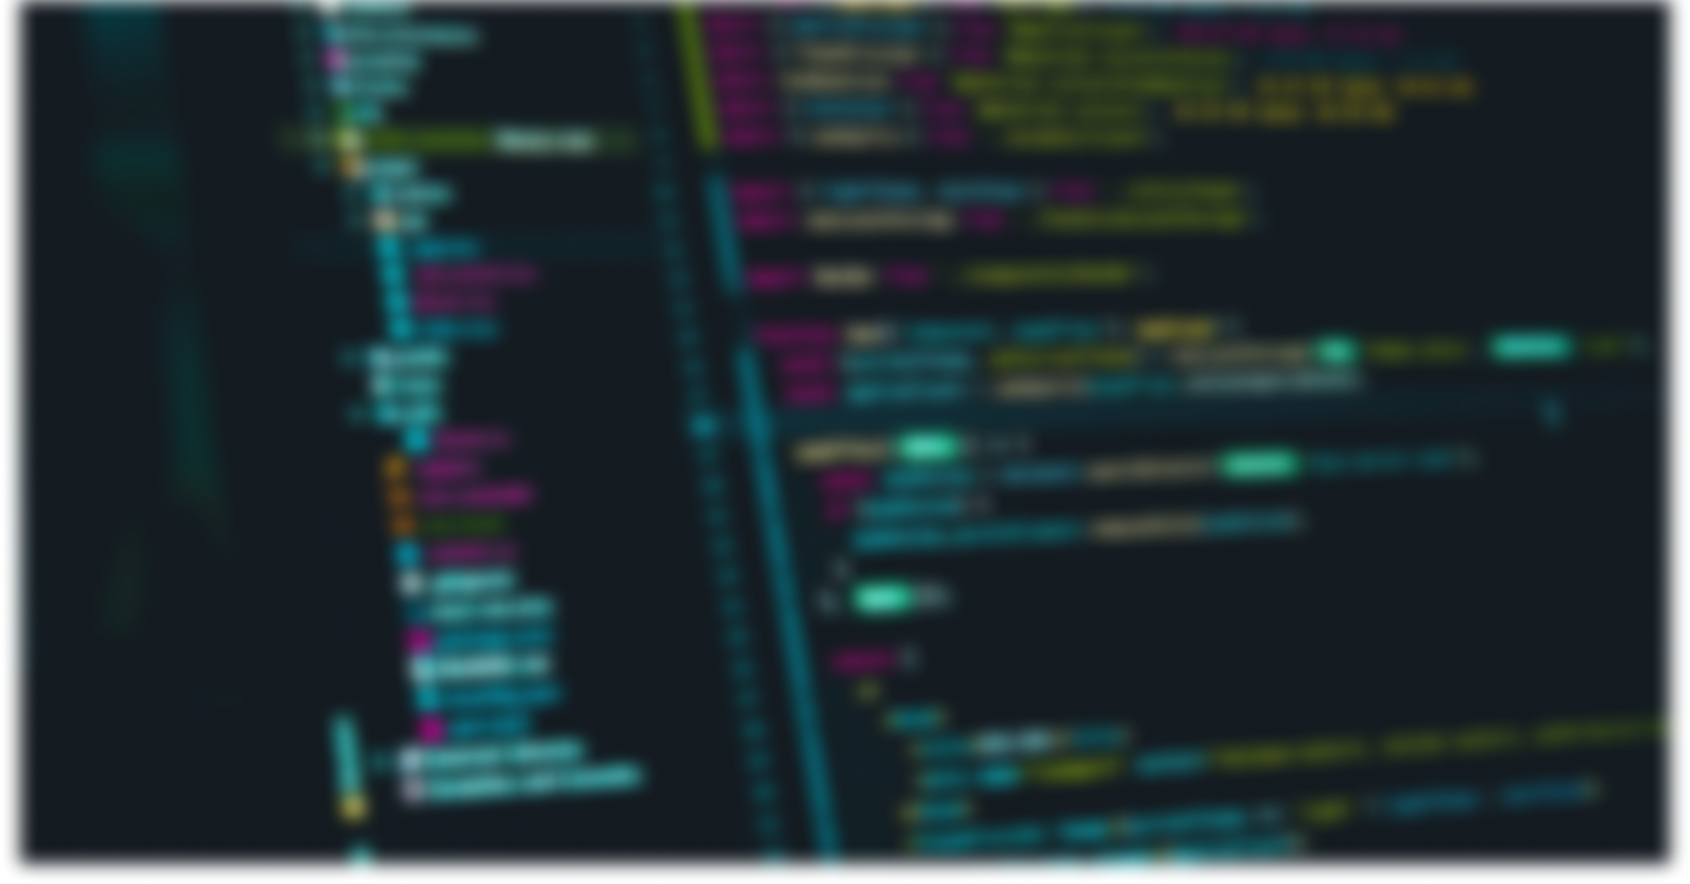
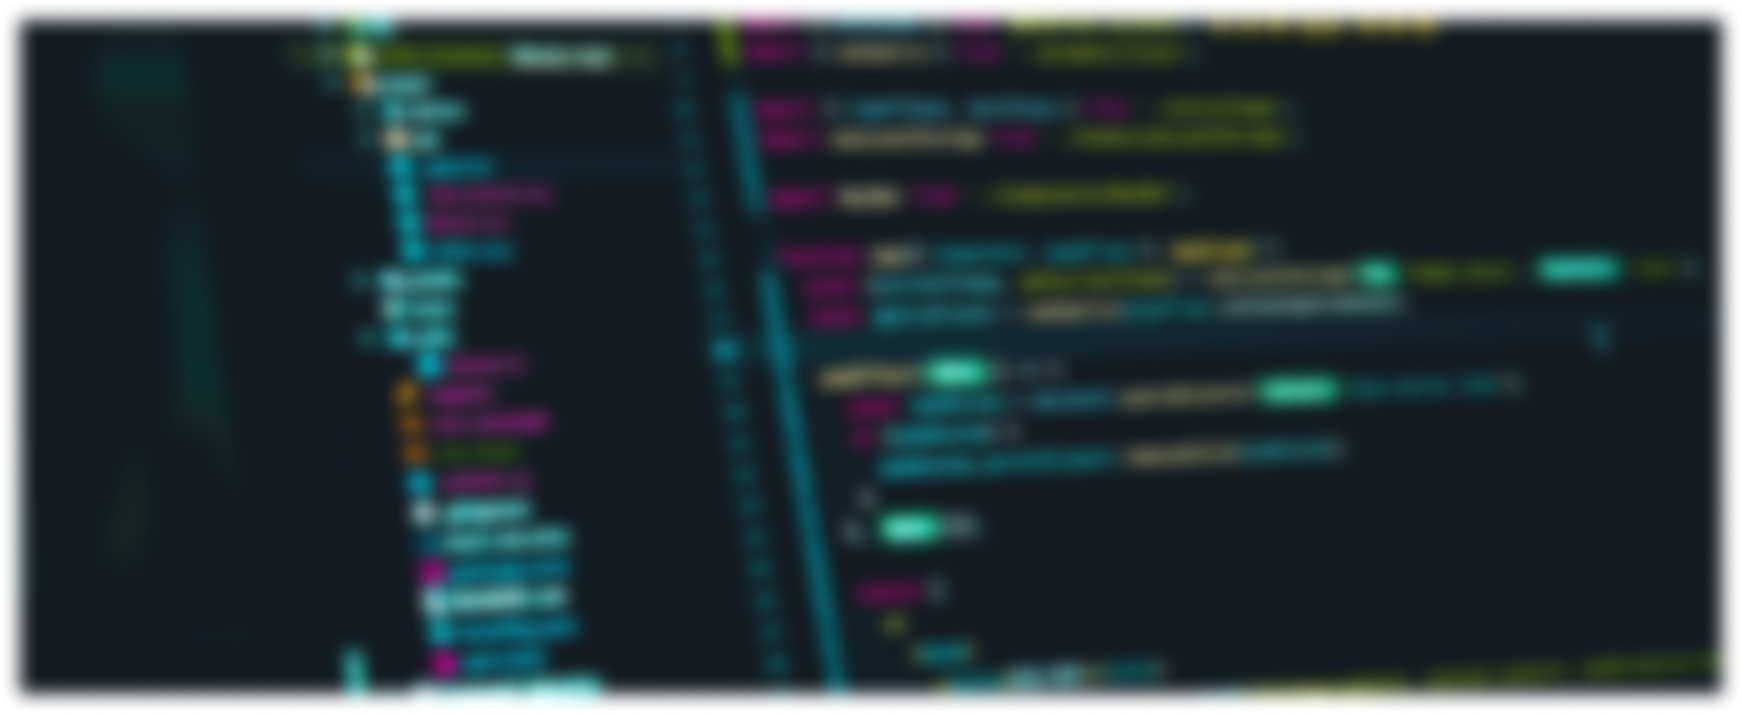
Creating a heroSection structure

Changed region(s): [[0.0, 0.0, 1.0, 0.4314], [0.0, 0.4622, 0.9846, 1.0], [0.4, 0.493, 0.4308, 0.5238]]

diff --git a/style.css b/style.css
@@ -1,24 +1,96 @@
-body{
+@import url('https://fonts.googleapis.com/css2?family=Roboto:ital,wght@0,100;0,300;0,500;0,700;0,900;1,100;1,300;1,400;1,500;1,700;1,900&display=swap');
+
+*{
     padding: 0;
     margin: 0;
+    box-sizing: border-box;
+    font-family: 'Roboto', sans-serif;
+    
 }
 
-.container{
+body{
+    background-color: #101323;
     display: flex;
     justify-content: center;
-    background-color: #101323;
-    width: 1920px;
-    height: 6702px;
+}
+.container{
+    border: 2px solid red;
+    display: flex;
+    justify-content: center;
+    width: 100vw;
+    max-width: 1920px;
 }
 
-.heroSection{
-    background-image: url(Assets/heroBackground.png);
-    width: 1704px;
-    height: 865px;
-}
-.navbar{
+@media (width >= 1920px) {
+    .breakpoint{
+        display: flex;
+        flex-direction: column;
+        border: 2px solid rgb(0, 255, 0);
+        width: 1704px;
+        margin-left: 108px;
+        margin-right: 108px;
+    }
+    /*HERO SECTION - START*/
 
-}
-.heroSectionMiddleContent{
+    /*NAVBAR SECTION - START*/
+    .heroSectionNavbar{
+        border: 2px solid rgb(220, 134, 220);
+        display: flex;
+        align-items: center;
+        width: 100%;
+        aspect-ratio: 17.04;
+    }
+    .heroSectionNavbarLinks{
+        border: 2px solid rgb(255, 191, 0);
+        display: flex;
+        justify-content: space-between;
+        width: 35%;
+        font-weight: 300;
+        font-size: 28px;
+    }
+    .navbarLink > a{
+        border: 2px solid yellow;
+        color: #CFFAFE;
+        text-decoration: none;
+        text-transform: capitalize;
+    }
+    .navbarLink > a:hover{
+        color: #A5F3FC;
+    }
+    .navbarLink > a:active{
+        color: #67E8F9;
+    }
+    /*NAVBAR SECTION - END*/
 
-}
+    /*MIDDLE HERO SECTION - START*/
+    .heroSection{
+        border: 3px solid lightseagreen;
+        background-image: url(Assets/heroBackground.png);
+        display: flex;
+        flex-direction: column;
+        width: 100%;
+        aspect-ratio: 2.272;
+    }
+    .heroMainText{
+        border:  1px solid #bcbdc4;
+        width: calc(100% - 204px);
+        height: 30%;
+        margin-top: 5%;
+        color: #06B6D4;
+        font-size: 100px;
+        font-weight: 300;
+    }
+    .heroMiddleText{
+        border:  1px solid #bcbdc4;
+        width: 1100px;
+        height: 150px;
+        font-weight: 200;
+        font-size: 30px;
+        line-height: 40px;
+        color: #A5F3FC;
+        margin-top: 50px;
+    }
+    /*MIDDLE HERO SECTION - END*/
+    
+    /*HERO SECTION - END*/
+  }

diff --git a/index.html b/index.html
@@ -8,19 +8,28 @@
 </head>
 <body>
     <div class="container">
-        <div class="heroSection">
-            <div class="navbar">
-                
+        <div class="breakpoint">
+        <!--HERO SECTION START--> 
+            <div class="heroSectionNavbar">
+                <div class="heroSectionNavbarLinks">
+                    <div class="navbarLink"><a href="#">home</a></div>
+                    <div class="navbarLink"><a href="#">contact</a></div>
+                    <div class="navbarLink"><a href="#">portfolio</a></div>
+                    <div class="navbarLink"><a href="#">project</a></div>
+                    <div class="navbarLink"><a href="#">about us</a></div>
+                </div>
             </div>
-            <div class="heroSectionMiddleContent">
-                
+            <div class="heroSection">
+                <div class="heroMainText">
+                    Reach The <u>NEXT LEVEL</u> With Our Technics.
+                </div>
+                <div class="heroMiddleText">
+                    Learn modern learning methods that will help you learn programming at a higher level. Change your life for the better and get to know the true face of web applications. Don't waste your time
+                    and join our team of world-renowned experts in building websites and web and mobile applications.
+                </div>
             </div>
-
-            </div>
-            <div class="heroSectionLowerContent">
-                
-            </div>
-        </div>
+        </div>   
+        <!--HERO SECTION END-->
     </div>
 </body>
 </html>
